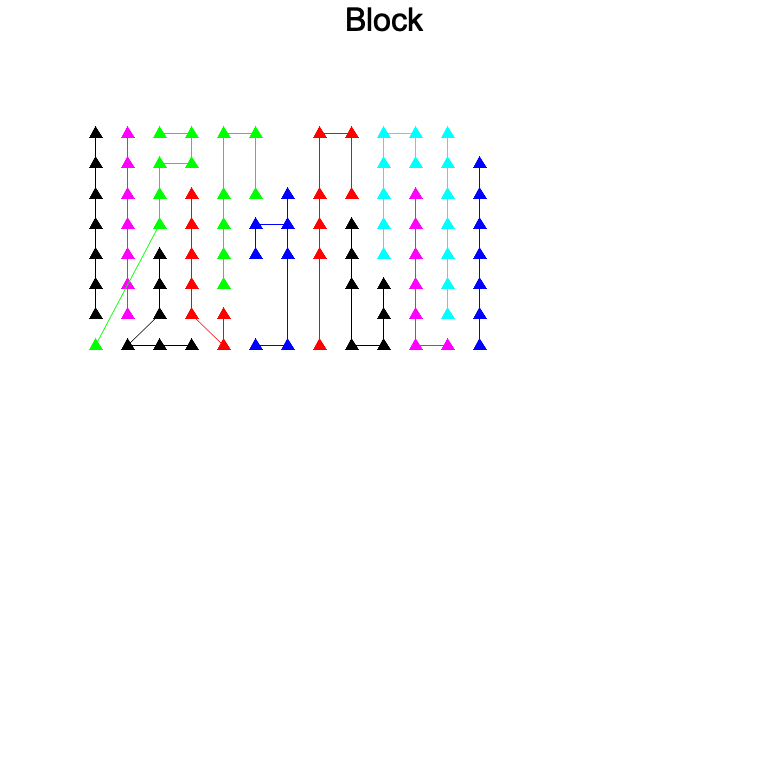
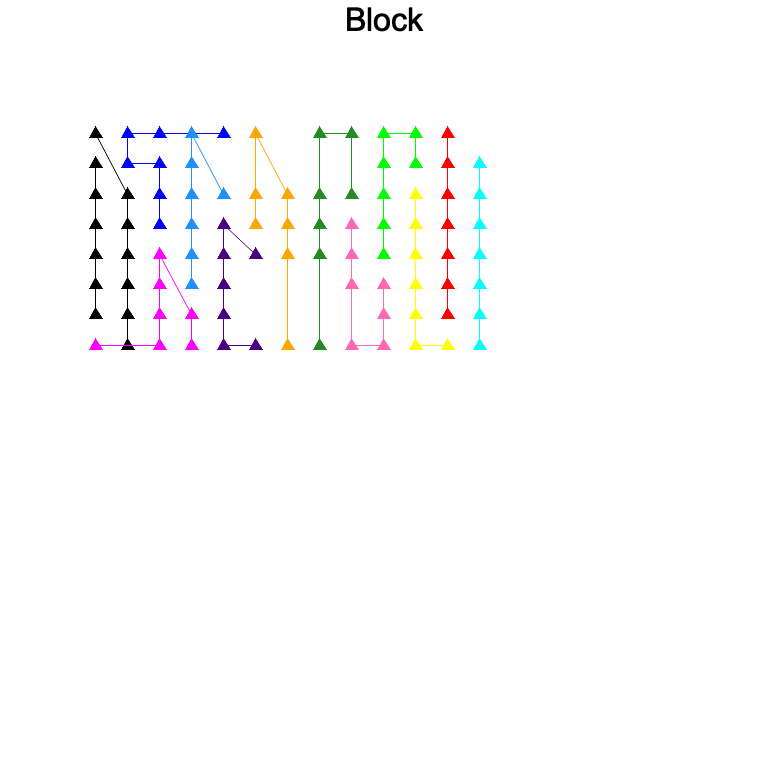
fixed is_loop = false

diff --git a/src/anneal/path.rs b/src/anneal/path.rs
@@ -80,17 +80,18 @@ impl Path {
 
     fn delta_distance_no_loop(&self, i: usize, j: usize) -> f32 {
         let original_order = self.order.clone();
-        let swapped_order;
-        {
+        let swapped_order = {
             let mut vec = original_order.clone();
             vec.swap(i, j);
-            swapped_order = vec;
-        }
+            vec
+        };
         let mut original_distance = 0.0;
         let mut swapped_distance = 0.0;
         for i in 0..(self.length - 1) {
-            original_distance += self.distance(original_order[i], original_order[i + 1]);
-            swapped_distance += self.distance(swapped_order[i], swapped_order[i + 1]);
+            original_distance +=
+                self.distances[original_order[i] * self.length + original_order[i + 1]];
+            swapped_distance +=
+                self.distances[swapped_order[i] * self.length + swapped_order[i + 1]];
         }
         swapped_distance - original_distance
     }
@@ -172,7 +173,7 @@ pub fn shortest_path_order(
         orders.push(order.clone());
         let total_distance = {
             let mut sum = 0.;
-            for i in 0..(order.len() - 1) {
+            for i in 0..(length - 1) {
                 sum += distances[i * length + (i + 1)];
             }
             if is_loop {

diff --git a/src/plot.rs b/src/plot.rs
@@ -13,7 +13,20 @@ pub fn plot_strings(
     let salesmen_capacities = _salesmen_capacities.to_vec();
 
     // Plot the result and save to folder images/<filename>
-    let my_colors = [&BLACK, &RED, &BLUE, &GREEN, &MAGENTA, &CYAN];
+    let my_colors = [
+        &BLACK,
+        &RED,
+        &BLUE,
+        &GREEN,
+        &MAGENTA,
+        &CYAN,
+        &YELLOW,
+        &RGBColor(255, 165, 0),   // ORANGE
+        &RGBColor(75, 0, 130),    // INDIGO
+        &RGBColor(30, 144, 255),  // DODGER BLUE
+        &RGBColor(34, 139, 34),   // FOREST GREEN
+        &RGBColor(255, 105, 180), // HOT PINK
+    ];
 
     let pathname = &format!("images/{}.png", filename);
     let root_drawing_area = BitMapBackend::new(pathname, (768, 768)).into_drawing_area();

diff --git a/src/string.rs b/src/string.rs
@@ -41,7 +41,7 @@ where
         let slice_order = crate::anneal::path::shortest_path_order(
             &filtered_points,
             &distances,
-            3,
+            1,
             is_loop,
             seed,
         );
